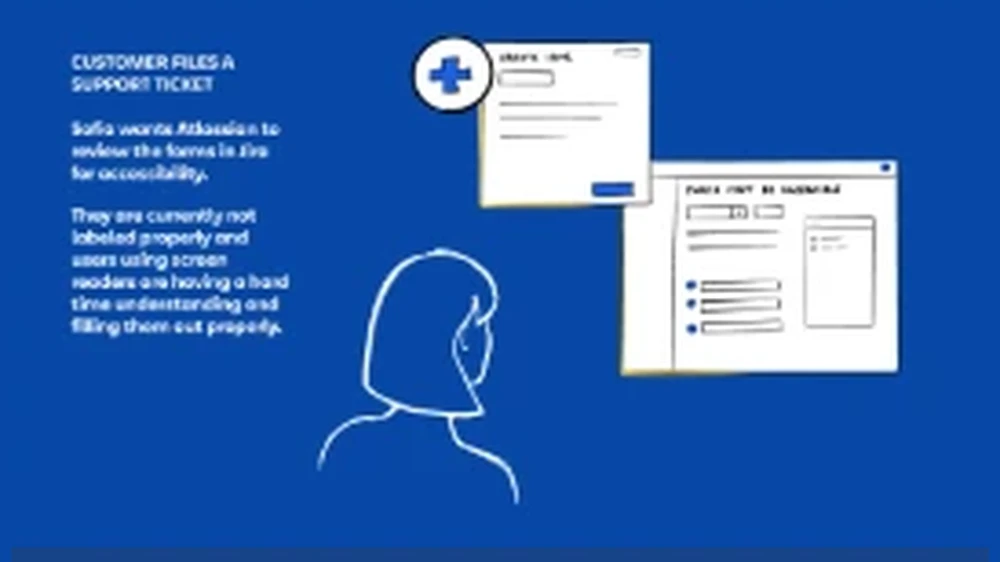
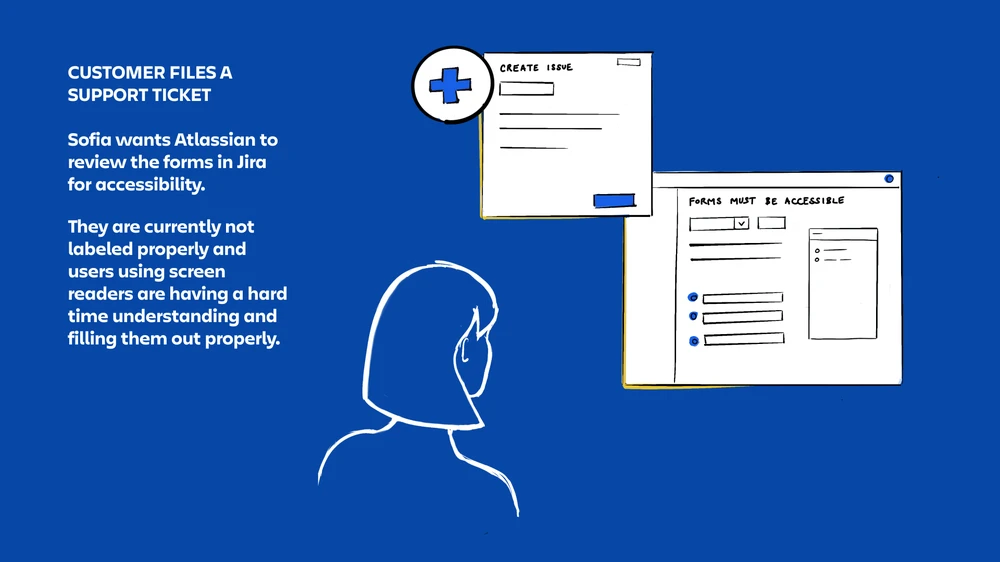
ilovestripe: a11y — sharper mini story frames: story 1 support-ticket frame and story 3 "Resources and help" frame replaced with full-res images; blur removed from story 3

diff --git a/ilovestripe/accessibility/index.html b/ilovestripe/accessibility/index.html
@@ -12,7 +12,7 @@
 <link rel="preconnect" href="https://fonts.googleapis.com" />
 <link rel="preconnect" href="https://fonts.gstatic.com" crossorigin />
 <link href="https://fonts.googleapis.com/css2?family=Bebas+Neue&family=Caveat:wght@500;600&family=DM+Mono:wght@400;500&family=DM+Sans:opsz,wght@9..40,400;9..40,500&family=Figtree:wght@400;500;600;700&display=swap" rel="stylesheet" />
-<link rel="stylesheet" href="/ilovestripe/case.css?v=220" />
+<link rel="stylesheet" href="/ilovestripe/case.css?v=221" />
 <script src="/assets/analytics.js"></script>
 </head>
 <body>
@@ -159,21 +159,21 @@
 <section class="band k" id="storyboard-2">
   <div class="wrap"><div class="slide-fit">
 
-    <div class="band-body"><div class="ms" style="--k:.7757;--c:28px" role="group" aria-label="Mini story: Open customer communication"><img class="ms-t" src="/assets/img/a11y-ms1-1.webp?v=17" alt="Open customer communication: Sofia is our customer contact at Unilever, advocating for her workforce, 5% of whom live with disabilities" loading="lazy" /><div class="ms-g"><div class="ms-head"><div class="ms-meta"><b>01</b><span>of 03 mini stories</span><p class="ms-cap">Created and drawn by me</p></div></div><img src="/assets/img/a11y-ms1-2.webp?v=17" alt="Customer files a support ticket: Sofia can't use a screen with unlabeled fields and files a ticket about it" loading="lazy" /><img src="/assets/img/a11y-ms1-3.webp?v=17" alt="Customer is notified the ticket has been seen: an Atlassian support engineer picks up the ticket" loading="lazy" /><img src="/assets/img/a11y-ms1-4.webp?v=17" alt="The QA team makes sure the issue is new and unique, checking for duplicates" loading="lazy" /><img src="/assets/img/a11y-ms1-5.webp?v=17" alt="The public ticket is created and can easily be tracked" loading="lazy" /><img src="/assets/img/a11y-ms1-6.webp?v=17" alt="The public-facing roadmap keeps customers up to date on our work" loading="lazy" /><img src="/assets/img/a11y-ms1-7.webp?v=17" alt="Product teams work on the issue with help from the accessibility team" loading="lazy" /></div></div></div>
+    <div class="band-body"><div class="ms" style="--k:.7757;--c:28px" role="group" aria-label="Mini story: Open customer communication"><img class="ms-t" src="/assets/img/a11y-ms1-1.webp?v=19" alt="Open customer communication: Sofia is our customer contact at Unilever, advocating for her workforce, 5% of whom live with disabilities" loading="lazy" /><div class="ms-g"><div class="ms-head"><div class="ms-meta"><b>01</b><span>of 03 mini stories</span><p class="ms-cap">Created and drawn by me</p></div></div><img src="/assets/img/a11y-ms1-2.webp?v=19" alt="Customer files a support ticket: Sofia can't use a screen with unlabeled fields and files a ticket about it" loading="lazy" /><img src="/assets/img/a11y-ms1-3.webp?v=19" alt="Customer is notified the ticket has been seen: an Atlassian support engineer picks up the ticket" loading="lazy" /><img src="/assets/img/a11y-ms1-4.webp?v=19" alt="The QA team makes sure the issue is new and unique, checking for duplicates" loading="lazy" /><img src="/assets/img/a11y-ms1-5.webp?v=19" alt="The public ticket is created and can easily be tracked" loading="lazy" /><img src="/assets/img/a11y-ms1-6.webp?v=19" alt="The public-facing roadmap keeps customers up to date on our work" loading="lazy" /><img src="/assets/img/a11y-ms1-7.webp?v=19" alt="Product teams work on the issue with help from the accessibility team" loading="lazy" /></div></div></div>
   </div></div>
 <div class="pnav"><div class="wrap"><a class="nav-arrow" href="#storyboard-3" aria-label="Next: Mini story 2"><span class="na-l">Mini story 2</span><span class="na-c"><svg viewBox="0 0 24 24" fill="none" stroke="currentColor" stroke-width="1.7" stroke-linecap="round" stroke-linejoin="round" aria-hidden="true"><path d="M12 5v14M6 13l6 6 6-6"/></svg></span></a></div></div>
 </section>
 <section class="band g" id="storyboard-3">
   <div class="wrap"><div class="slide-fit">
 
-    <div class="band-body"><div class="ms" style="--k:.69;--c:21px" role="group" aria-label="Mini story: Improved onboarding and training"><img class="ms-t" src="/assets/img/a11y-ms2-1.webp?v=17" alt="Improved onboarding and training: Greg is a new team member at Atlassian, a UX designer with no prior experience in accessibility best practices, eager to learn and use the knowledge in his daily work" loading="lazy" /><div class="ms-g"><div class="ms-head"><div class="ms-meta"><b>02</b><span>of 03 mini stories</span><p class="ms-cap">Created and drawn by me</p></div></div><img src="/assets/img/a11y-ms2-2.webp?v=17" alt="Onboarding incorporates accessibility training: Greg joins and immediately starts his 90-day onboarding, which includes accessibility training courses" loading="lazy" /><img src="/assets/img/a11y-ms2-3.webp?v=17" alt="Leadership supports the importance of accessibility: Greg attends a Town Hall in June 2022 where leaders stress accessibility" loading="lazy" /><img src="/assets/img/a11y-ms2-4.webp?v=17" alt="Building empathy for users with disabilities: listening sessions with users of assistive technology, working in our software" loading="lazy" /><img src="/assets/img/a11y-ms2-5.webp?v=17" alt="Centralized and extensive accessibility resources for teams: accessibility training and color contrast guidance" loading="lazy" /><img src="/assets/img/a11y-ms2-6.webp?v=17" alt="Accessibility critique templates encourage good feedback during design critiques" loading="lazy" /><img src="/assets/img/a11y-ms2-7.webp?v=17" alt="Accessibility testing is done continuously: Greg and his team use automated tools and fully utilize accessibility testing with customers" loading="lazy" /></div></div></div>
+    <div class="band-body"><div class="ms" style="--k:.69;--c:21px" role="group" aria-label="Mini story: Improved onboarding and training"><img class="ms-t" src="/assets/img/a11y-ms2-1.webp?v=19" alt="Improved onboarding and training: Greg is a new team member at Atlassian, a UX designer with no prior experience in accessibility best practices, eager to learn and use the knowledge in his daily work" loading="lazy" /><div class="ms-g"><div class="ms-head"><div class="ms-meta"><b>02</b><span>of 03 mini stories</span><p class="ms-cap">Created and drawn by me</p></div></div><img src="/assets/img/a11y-ms2-2.webp?v=19" alt="Onboarding incorporates accessibility training: Greg joins and immediately starts his 90-day onboarding, which includes accessibility training courses" loading="lazy" /><img src="/assets/img/a11y-ms2-3.webp?v=19" alt="Leadership supports the importance of accessibility: Greg attends a Town Hall in June 2022 where leaders stress accessibility" loading="lazy" /><img src="/assets/img/a11y-ms2-4.webp?v=19" alt="Building empathy for users with disabilities: listening sessions with users of assistive technology, working in our software" loading="lazy" /><img src="/assets/img/a11y-ms2-5.webp?v=19" alt="Centralized and extensive accessibility resources for teams: accessibility training and color contrast guidance" loading="lazy" /><img src="/assets/img/a11y-ms2-6.webp?v=19" alt="Accessibility critique templates encourage good feedback during design critiques" loading="lazy" /><img src="/assets/img/a11y-ms2-7.webp?v=19" alt="Accessibility testing is done continuously: Greg and his team use automated tools and fully utilize accessibility testing with customers" loading="lazy" /></div></div></div>
   </div></div>
 <div class="pnav"><div class="wrap"><a class="nav-arrow" href="#storyboard-4" aria-label="Next: Mini story 3"><span class="na-l">Mini story 3</span><span class="na-c"><svg viewBox="0 0 24 24" fill="none" stroke="currentColor" stroke-width="1.7" stroke-linecap="round" stroke-linejoin="round" aria-hidden="true"><path d="M12 5v14M6 13l6 6 6-6"/></svg></span></a></div></div>
 </section>
 <section class="band k" id="storyboard-4">
   <div class="wrap"><div class="slide-fit">
 
-    <div class="band-body"><div class="ms ms-blur" style="--k:.695;--c:21px" role="group" aria-label="Mini story: Accessibility built into projects"><img class="ms-t" src="/assets/img/a11y-ms3-1.webp?v=17" alt="Accessibility built into projects: Robert is the feature lead for a big new initiative, Project Starship, where accessibility is integrated into every step" loading="lazy" /><div class="ms-g"><div class="ms-head"><div class="ms-meta"><b>03</b><span>of 03 mini stories</span><p class="ms-cap">Not my work: created by a peer designer</p></div></div><img src="/assets/img/a11y-ms3-2.webp?v=17" alt="Accessibility planning starts at the project poster: Robert begins work on the project poster, and accessibility is included in the research plan" loading="lazy" /><img src="/assets/img/a11y-ms3-3.webp?v=17" alt="Research involves users with disabilities, including people who use assistive technology" loading="lazy" /><img src="/assets/img/a11y-ms3-4.webp?v=17" alt="Accessibility issues are included in the backlog, in the project starship backlog list" loading="lazy" /><img src="/assets/img/a11y-ms3-5.webp?v=17" alt="Resources and help from the accessibility teams while working in sprints" loading="lazy" /><img src="/assets/img/a11y-ms3-6.webp?v=17" alt="Testing with real users: testing with users with disabilities is integrated into the project before and after launch" loading="lazy" /><img src="/assets/img/a11y-ms3-7.webp?v=17" alt="User feedback is continually integrated: the team collects feedback from a diverse range of customers after the release" loading="lazy" /></div></div></div>
+    <div class="band-body"><div class="ms ms-blur" style="--k:.695;--c:21px" role="group" aria-label="Mini story: Accessibility built into projects"><img class="ms-t" src="/assets/img/a11y-ms3-1.webp?v=19" alt="Accessibility built into projects: Robert is the feature lead for a big new initiative, Project Starship, where accessibility is integrated into every step" loading="lazy" /><div class="ms-g"><div class="ms-head"><div class="ms-meta"><b>03</b><span>of 03 mini stories</span><p class="ms-cap">Not my work: created by a peer designer</p></div></div><img src="/assets/img/a11y-ms3-2.webp?v=19" alt="Accessibility planning starts at the project poster: Robert begins work on the project poster, and accessibility is included in the research plan" loading="lazy" /><img src="/assets/img/a11y-ms3-3.webp?v=19" alt="Research involves users with disabilities, including people who use assistive technology" loading="lazy" /><img src="/assets/img/a11y-ms3-4.webp?v=19" alt="Accessibility issues are included in the backlog, in the project starship backlog list" loading="lazy" /><img src="/assets/img/a11y-ms3-5.webp?v=19" alt="Resources and help from the accessibility teams while working in sprints" loading="lazy" /><img src="/assets/img/a11y-ms3-6.webp?v=19" alt="Testing with real users: testing with users with disabilities is integrated into the project before and after launch" loading="lazy" /><img src="/assets/img/a11y-ms3-7.webp?v=19" alt="User feedback is continually integrated: the team collects feedback from a diverse range of customers after the release" loading="lazy" /></div></div></div>
   </div></div>
 <div class="pnav"><div class="wrap"><a class="nav-arrow" href="#the-vision" aria-label="Next: The story in motion"><span class="na-l">The story in motion</span><span class="na-c"><svg viewBox="0 0 24 24" fill="none" stroke="currentColor" stroke-width="1.7" stroke-linecap="round" stroke-linejoin="round" aria-hidden="true"><path d="M12 5v14M6 13l6 6 6-6"/></svg></span></a></div></div>
 </section>

diff --git a/ilovestripe/case.css b/ilovestripe/case.css
@@ -1202,7 +1202,6 @@
   .ms-meta{display:flex;flex-direction:column;align-items:flex-end;text-align:right;color:#172b4d;padding:2px 4px 0 0}
   .ms-meta b{font-family:var(--display);font-weight:400;font-size:64px;line-height:.9;letter-spacing:.02em;color:#1868DB}
   .ms-meta span{font-family:var(--mono);font-size:11px;letter-spacing:.16em;text-transform:uppercase;color:#6b778c;margin-top:8px}
-  .ms-blur .ms-g>img{filter:blur(.7px)}
   .ms-cap{margin:12px 0 0;font-family:var(--mono);font-size:11px;letter-spacing:.16em;text-transform:uppercase;color:#6b778c}
   @media(max-width:900px){.ms{margin:18px 0 0 0;max-width:none}.ms-g{grid-template-columns:repeat(2,1fr);padding:14px;gap:10px}.ms-t{position:static;width:100%;margin-bottom:10px}.ms-head{justify-content:flex-start;min-height:0}.ms-meta{align-items:flex-start;text-align:left}}
 

diff --git a/ilovestripe/portfolio-insights/index.html b/ilovestripe/portfolio-insights/index.html
@@ -12,7 +12,7 @@
 <link rel="preconnect" href="https://fonts.googleapis.com" />
 <link rel="preconnect" href="https://fonts.gstatic.com" crossorigin />
 <link href="https://fonts.googleapis.com/css2?family=Bebas+Neue&family=Caveat:wght@500;600&family=DM+Mono:wght@400;500&family=DM+Sans:opsz,wght@9..40,400;9..40,500&family=Figtree:wght@400;500;600;700&display=swap" rel="stylesheet" />
-<link rel="stylesheet" href="/ilovestripe/case.css?v=220" />
+<link rel="stylesheet" href="/ilovestripe/case.css?v=221" />
 <script src="/assets/analytics.js"></script>
 </head>
 <body>
